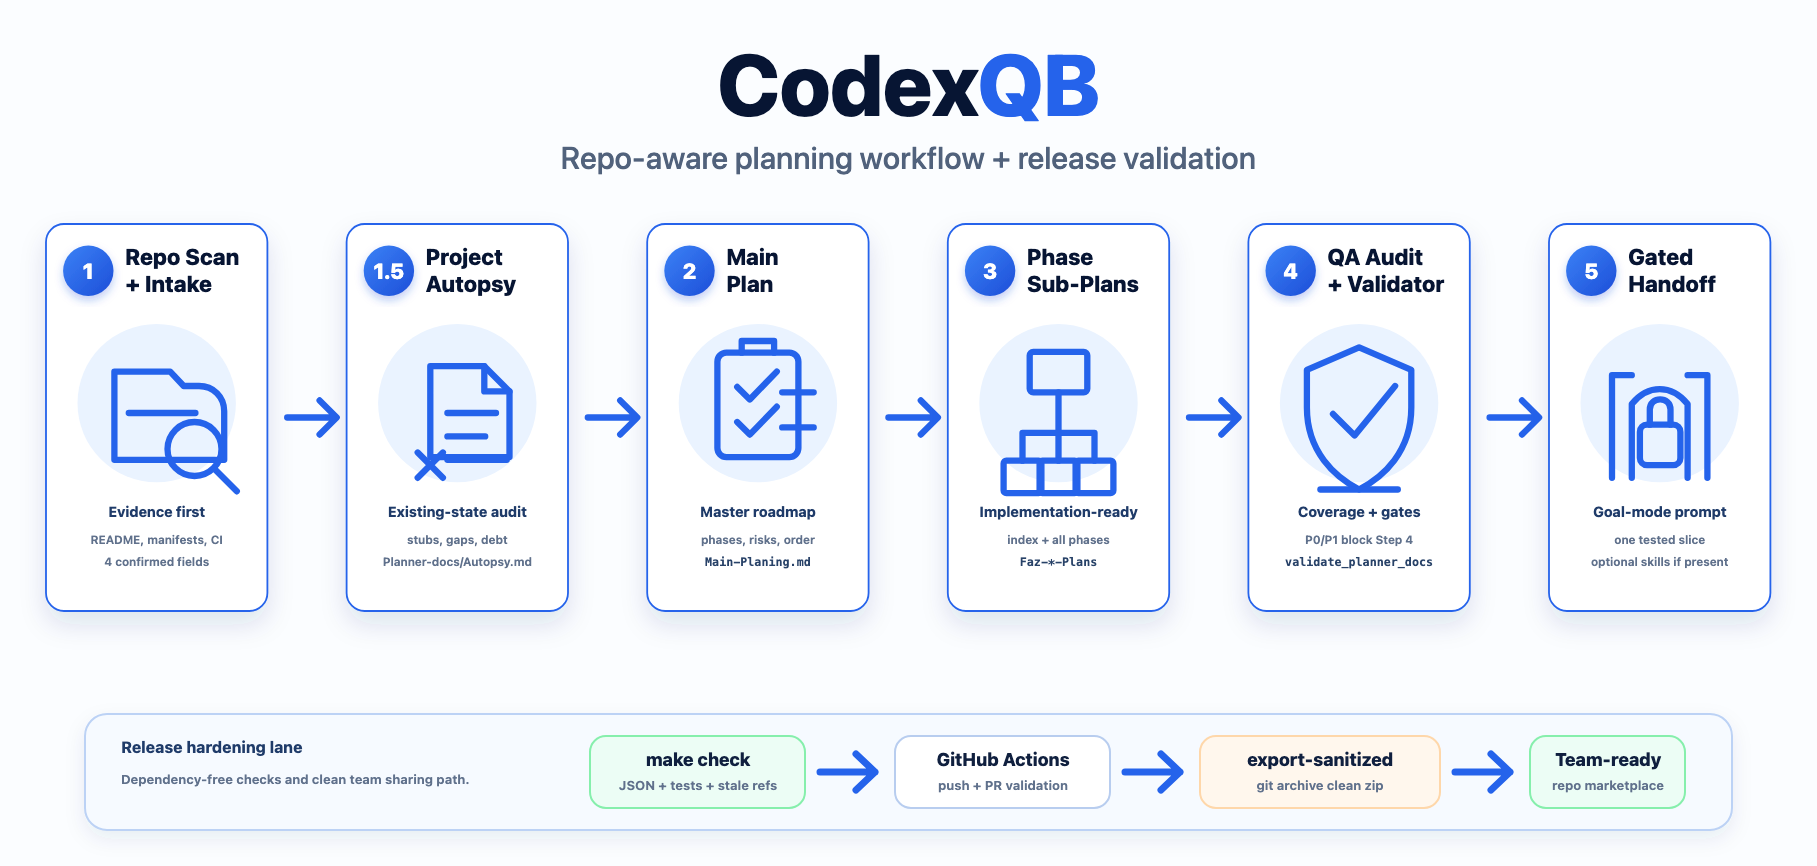
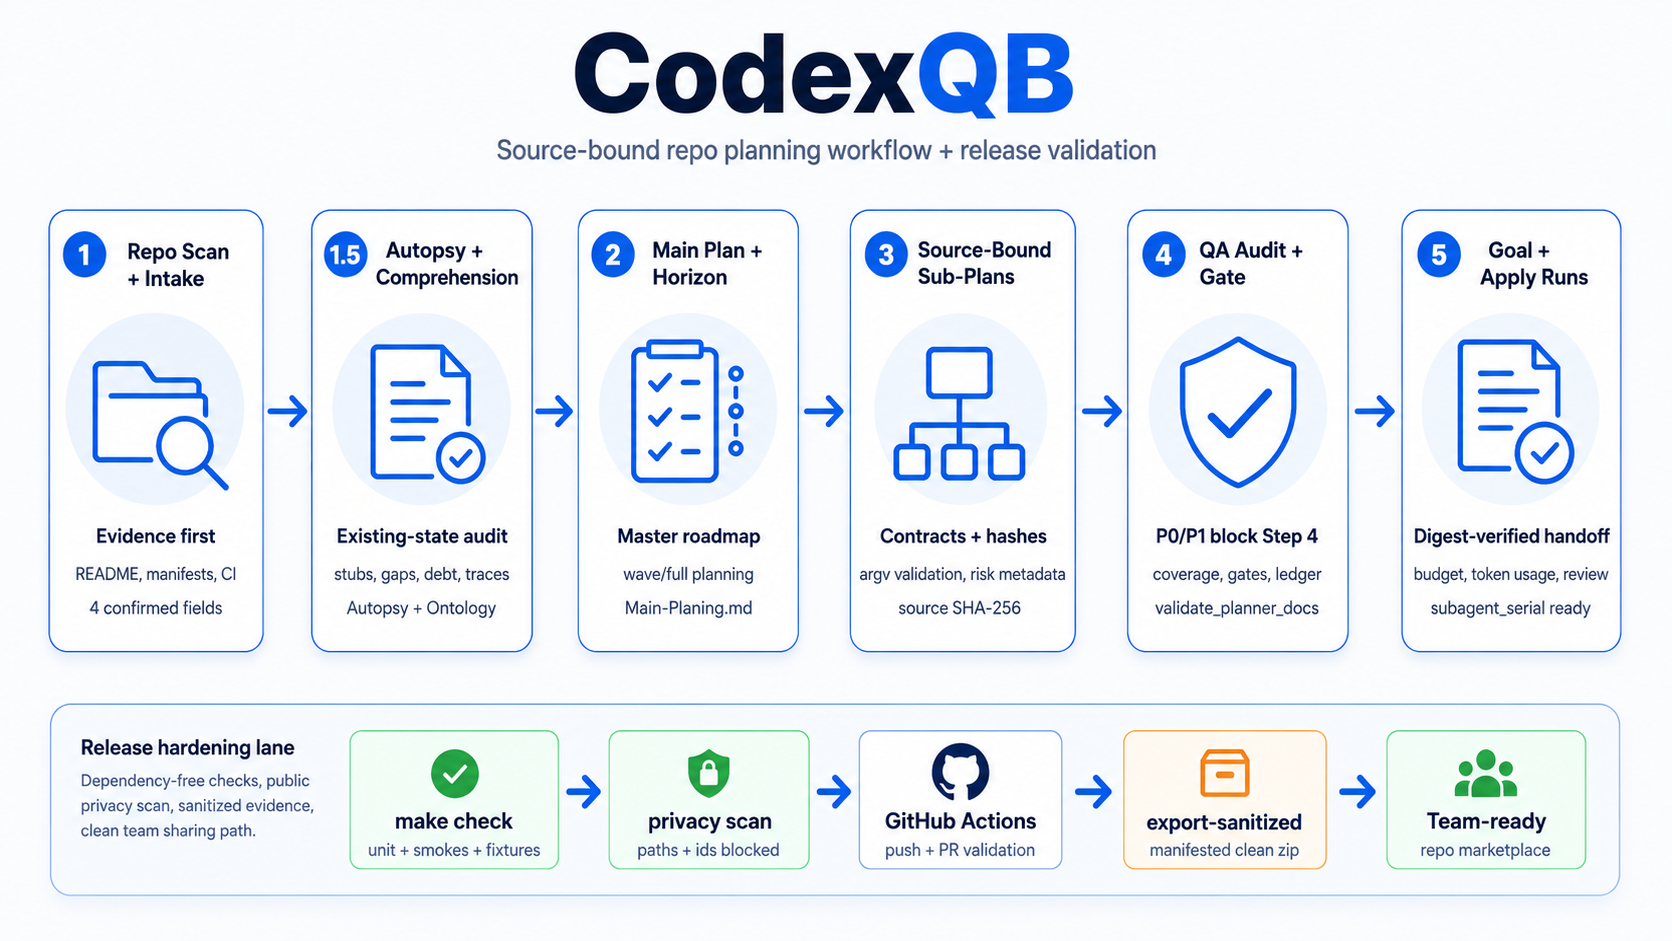
Update workflow diagram

diff --git a/README.md b/README.md
@@ -4,7 +4,9 @@
 
 **Vibecoding-first repo planning for Codex.** CodexQB turns a project repository into a durable planning package: main plan, existing-project autopsy, optional project comprehension, project ontology, planning ledger, phase sub-plans, QA audit, and a gated implementation handoff.
 
-![CodexQB workflow and release validation](docs/assets/codexqb-workflow.png)
+![CodexQB source-bound workflow and release validation](docs/assets/codexqb-workflow.png)
+
+The diagram shows the current 0.3.0 flow: repo-aware intake, existing-project autopsy and comprehension, source-bound sub-plans, P0/P1-gated QA audit, digest-verified Goal/Apply runs, public privacy scanning, and sanitized release validation.
 
 CodexQB is a Codex plugin that installs the `$codexqb` skill. It is built for software, AI, infrastructure, security, and automation projects where planning needs to be evidence-backed, reviewable, adaptive, and ready for small verified execution slices.
 